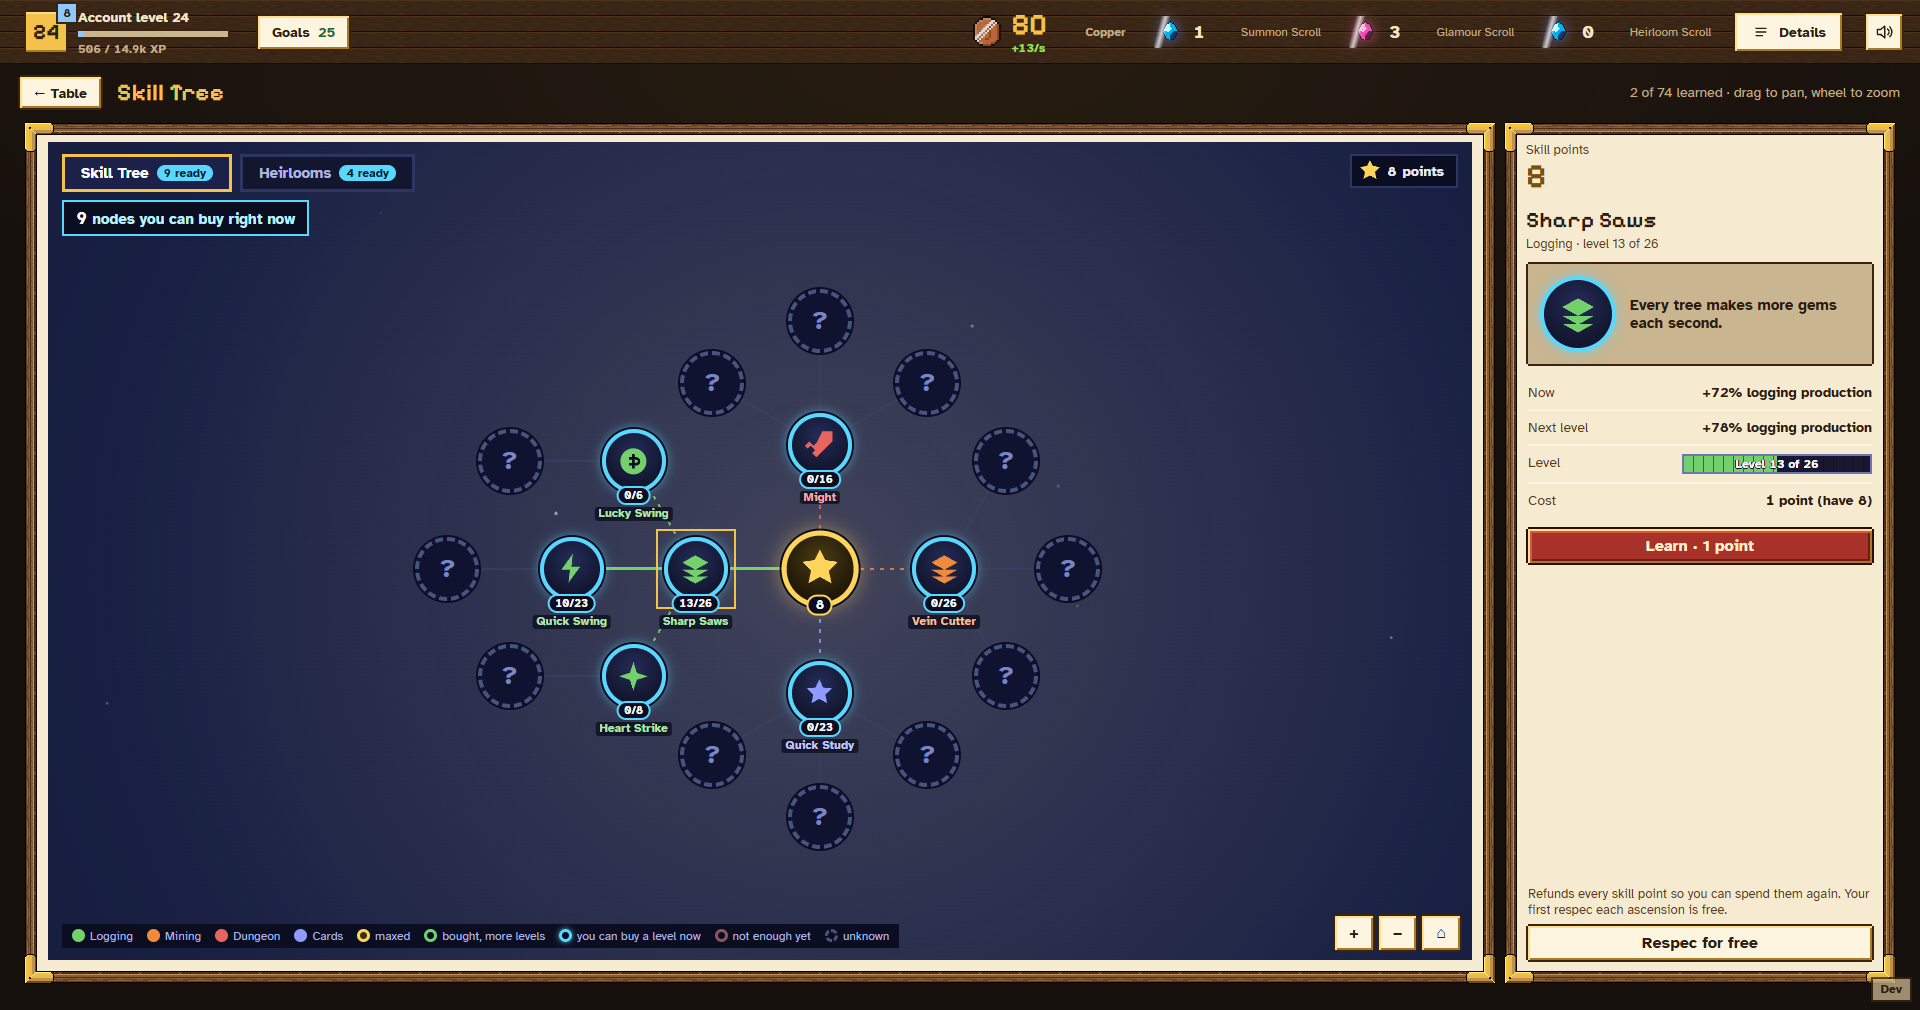
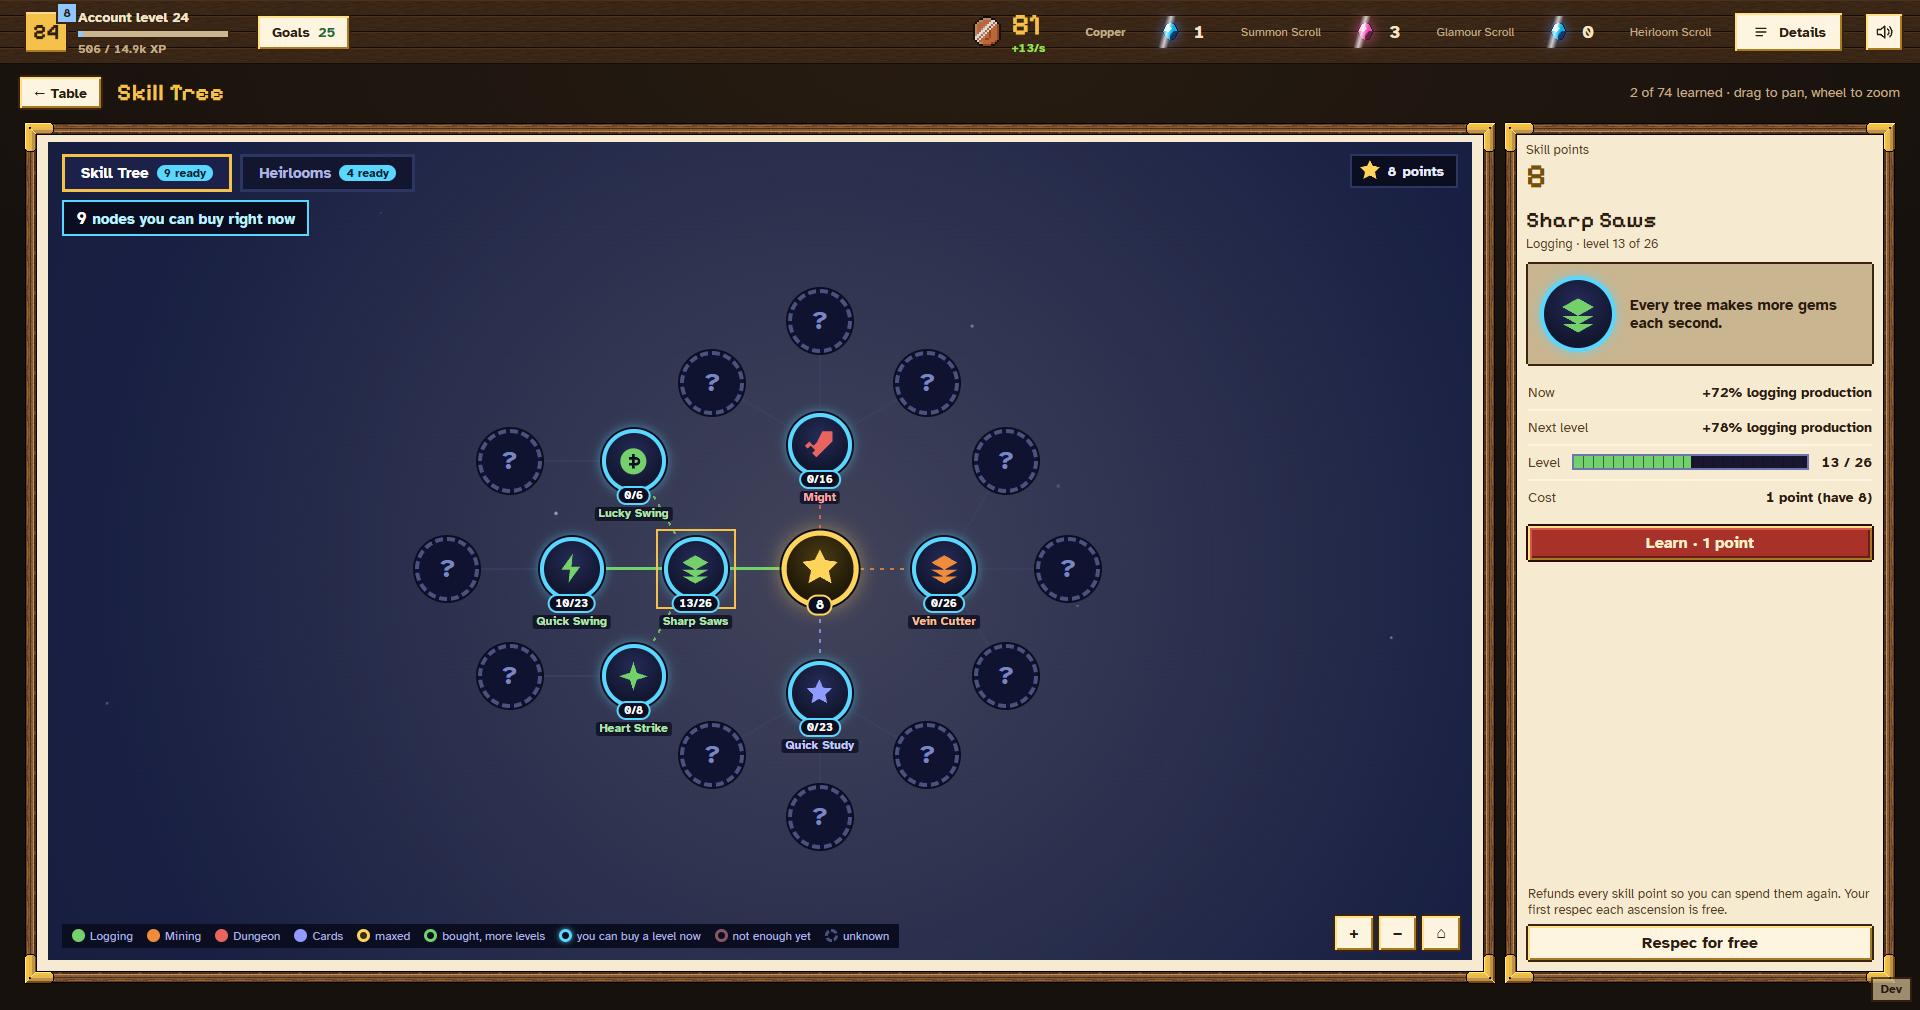
Skill web: level count beside the bar, not on it; area keys only on the web tab

diff --git a/src/renderer/src/pages/skills.ts b/src/renderer/src/pages/skills.ts
@@ -552,13 +552,16 @@ export function createSkillsPage(page: HTMLElement, ctx: SkillsContext): { rende
       if (n.maxRank > 10) {
         const fill = h('i', 'sk-bar__fill');
         fill.style.width = `${(n.rank / n.maxRank) * 100}%`;
-        pips.append(fill, h('b', 'bi-num', t.levelOf(n.rank, n.maxRank)));
+        pips.append(fill);
         pips.title = t.levelOf(n.rank, n.maxRank);
       } else {
         for (let i = 0; i < n.maxRank; i++) pips.append(h('i', i < n.rank ? 'is-on' : ''));
       }
-      const r = h('div', 'sk-row');
+      const r = h('div', n.maxRank > 10 ? 'sk-row sk-row--long' : 'sk-row');
       r.append(h('dt', '', t.levelLine), h('dd', '', ''));
+      // a long node: "13 / 26" above the bar, right-aligned, no text on the bar
+      if (n.maxRank > 10)
+        r.lastElementChild!.append(h('b', 'sk-bar__num bi-num', `${n.rank} / ${n.maxRank}`));
       r.lastElementChild!.append(pips);
       rows.append(r);
     }
@@ -661,7 +664,8 @@ export function createSkillsPage(page: HTMLElement, ctx: SkillsContext): { rende
       tabs.append(b);
     }
     const legend = h('div', 'sk-legend');
-    for (const area of ['logging', 'mining', 'dungeon', 'cards'] as const) {
+    // the area keys only mean something on the web, not on the Heirlooms map
+    for (const area of tab === 'tree' ? (['logging', 'mining', 'dungeon', 'cards'] as const) : []) {
       const item = h('span', 'sk-legend__item sk-legend__item--area');
       const dot = h('i', 'sk-legend__dot is-branch');
       dot.style.background = AREA_COLOUR[area];

diff --git a/src/renderer/src/pages/skillWeb.css b/src/renderer/src/pages/skillWeb.css
@@ -492,16 +492,21 @@
   inset: 0 auto 0 0;
   background: var(--gem);
 }
-.sk-bar b {
-  position: absolute;
-  inset: 0;
-  z-index: 1;
-  display: grid;
-  place-items: center;
-  font-size: 12px;
-  color: #fff;
-  text-shadow:
-    0 1px 0 #0b0e20,
-    1px 0 0 #0b0e20,
-    -1px 0 0 #0b0e20;
+/* a long node: Level, the bar, then "13 / 26" beside it; no text on the bar */
+.sk-row--long {
+  grid-template-columns: auto minmax(0, 1fr) auto;
+  align-items: center;
+}
+.sk-row--long dd {
+  display: contents;
+}
+.sk-row--long .sk-bar {
+  order: 1;
+  display: block;
+  width: 100%;
+  height: 16px;
+}
+.sk-bar__num {
+  order: 2;
+  font-size: 14px;
 }
